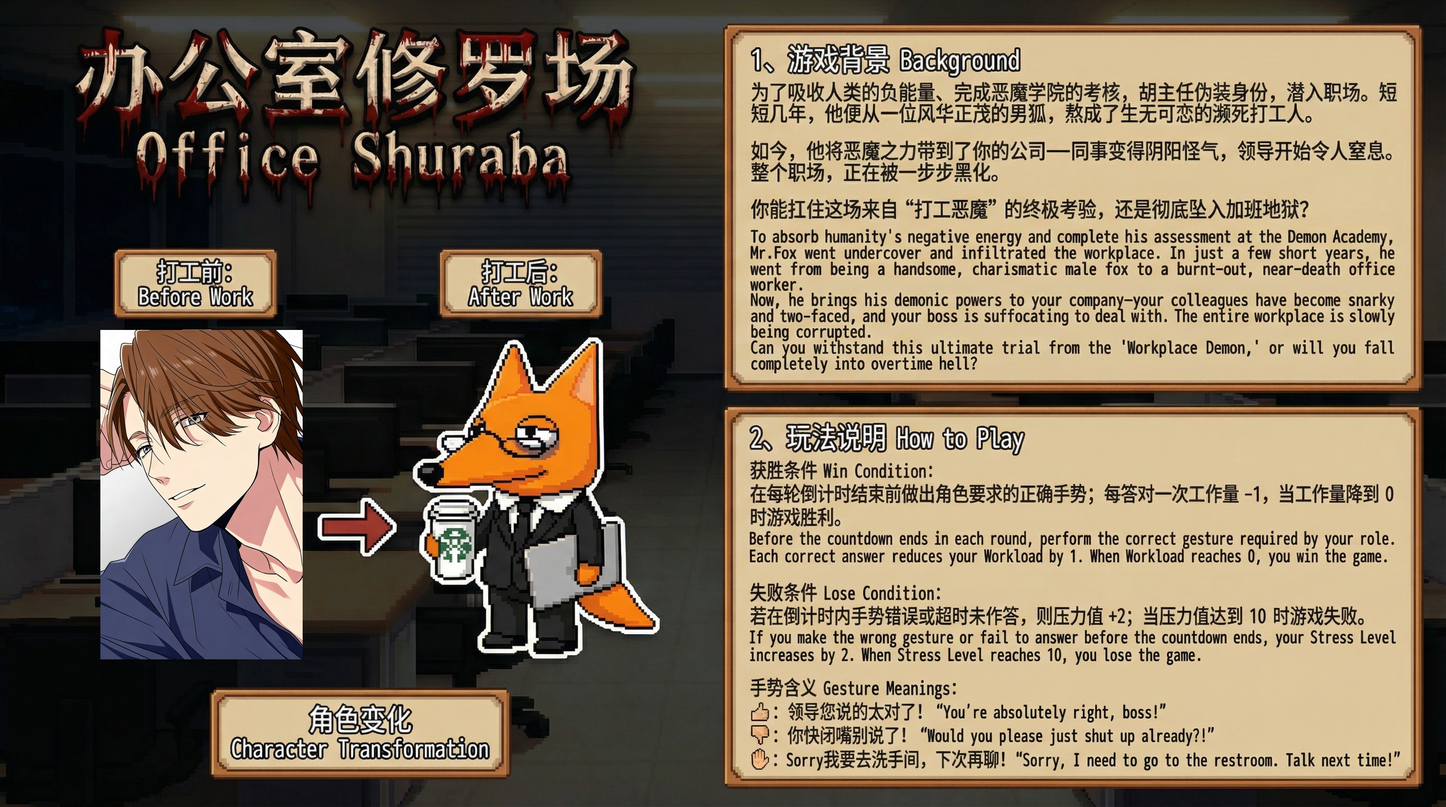
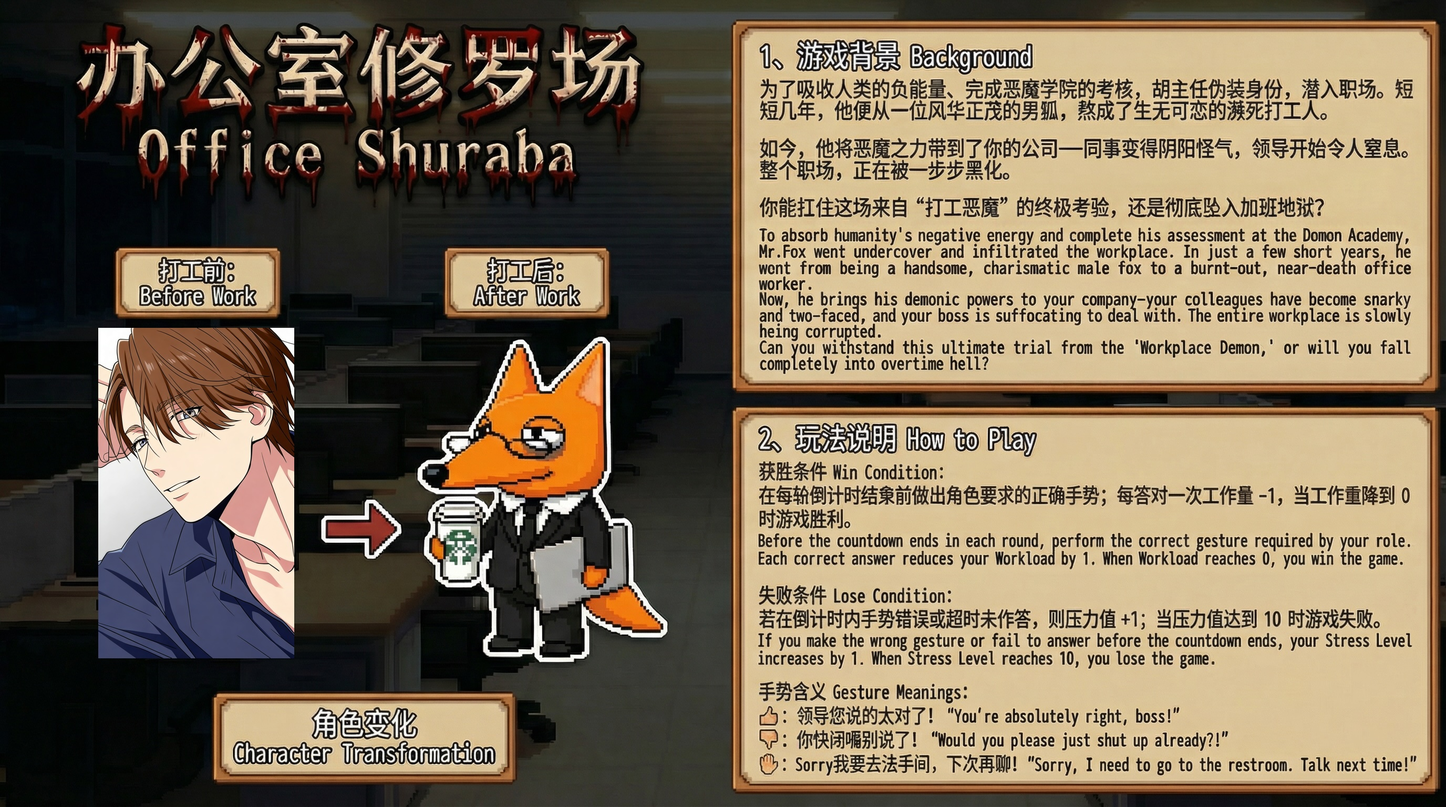
Update game copy and balancing details.
Made-with: Cursor

diff --git a/index.html b/index.html
@@ -497,7 +497,7 @@
         <div id="cameraStatus">Camera: initializing...</div>
         <div id="gestureStatus">当前检测到的手势：None</div>
         <div id="gestureDetail">手部状态：- ｜ 关键点：0 ｜ 原始分数：-</div>
-        <div class="build-tag">build: 2026-04-06-r5-local</div>
+        <div class="build-tag">build: 2026-04-06-r5-local · Dongni.Wang</div>
       </div>
     </div>
     <div id="debugPanel">
@@ -514,7 +514,7 @@
         <p>请用Chrome浏览器打开，允许摄像头权限，然后点击开始游戏。</p>
         <p class="start-sub-en">Please use Chrome browser, allow camera access, then tap Start Game.</p>
         <button id="startBtn" class="btn" type="button">开始游戏</button>
-        <button id="ruleBtn" class="btn btn-secondary" type="button">规则说明</button>
+        <button id="ruleBtn" class="btn btn-secondary" type="button">玩法说明</button>
       </div>
     </div>
     <div id="ruleModal" class="hidden">
@@ -1201,7 +1201,7 @@
         workLeft = clamp(workLeft - 1, 0, START_WORK);
         playLaserSfx();
       }
-      else pressure = clamp(pressure + 2, 0, MAX_PRESSURE);
+      else pressure = clamp(pressure + 1, 0, MAX_PRESSURE);
       updateMetrics();
 
       await wait(1500);

diff --git a/README.md b/README.md
@@ -5,7 +5,7 @@
 ## 玩法摘要
 
 - **胜利**：每轮在倒计时结束前做出题目要求的手势；每答对一次工作量 −1，工作量降到 **0** 时通关。
-- **失败**：手势错误或超时未作答，压力值 **+2**；压力值达到 **10** 时失败。
+- **失败**：手势错误或超时未作答，压力值 **+1**；压力值达到 **10** 时失败。
 - **手势含义**（与游戏内说明一致）  
   - 👍🏻：领导您说的太对了！  
   - 👎🏻：你快闭嘴别说了！  
